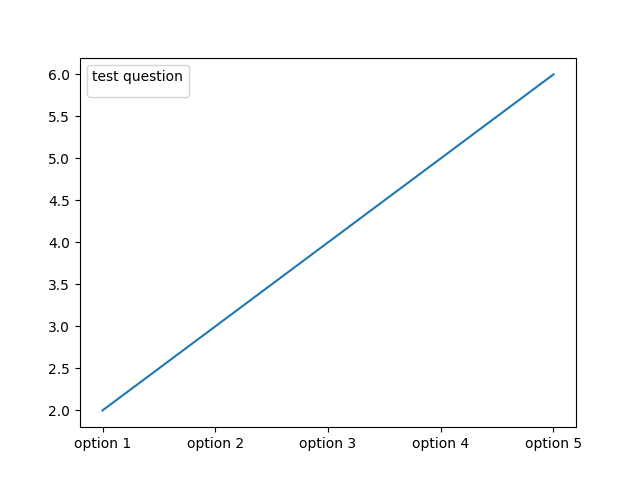
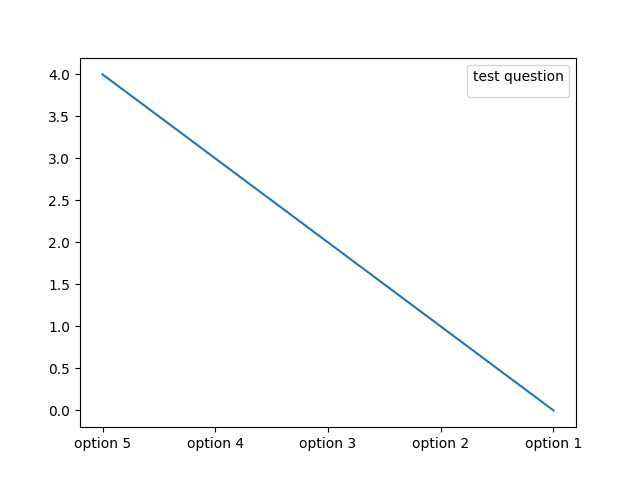
fix: statistics
Vote counting and tests fixed

diff --git a/decide/decide_statistics/templates/decide_statistics/index.html b/decide/decide_statistics/templates/decide_statistics/index.html
@@ -22,20 +22,21 @@
         <div class="col-md-3"></div>
         <div class="col-md-6">
             <form id="voting_graph">
-                <label for="voting" class="h2">Votings:</label>
-                <select class="form-select" aria-label="Choose a voting" id="voting" name="voting" required>
-                    <option selected value="0" disabled>Choose a voting</option>
+                <label for="voting" class="h2">Votaciones:</label>
+                <h3>Solo votaciones terminadas y con algún voto pueden ser mostradas</h3>
+                <select class="form-select" aria-label="Elija una votación" id="voting" name="voting" required>
+                    <option selected value="0" disabled>Elija una votación</option>
                     {% for v in votings %}
-                    <option value="{{v.id}}">{{v.desc}}</option>
+                    <option value="{{v.id}}">{{v.name}}</option>
                     {% endfor %}
                 </select>
-                <select class="form-select" aria-label="Choose a graph type" id="graph_type" name="graph_type" required>
-                    <option selected value="" disabled>Choose a graph type</option>
-                    <option value="bar">Bar</option>
-                    <option value="pie">Pie</option>
-                    <option value="horizontal_bar">Horizontal bar</option>
-                    <option value="dots">Dots</option>
-                    <option value="line">Line</option>
+                <select class="form-select" aria-label="Elija un tipo de gráfico" id="graph_type" name="graph_type" required>
+                    <option selected value="" disabled>Elija un tipo de gráfico</option>
+                    <option value="bar">Barra</option>
+                    <option value="pie">Tarta</option>
+                    <option value="horizontal_bar">Barra horizontal</option>
+                    <option value="dots">Puntos</option>
+                    <option value="line">Linea</option>
                 </select>
             </form>
             <button type="submit" class="btn btn-success" form="voting_graph">Consultar</button>

diff --git a/decide/decide_statistics/views.py b/decide/decide_statistics/views.py
@@ -1,28 +1,43 @@
 from django.shortcuts import render
-from voting.models import Voting, QuestionOption
+from voting.models import Voting, QuestionOption, Question, Auth
+from base import mods
 from django.http import HttpResponse
 import matplotlib.pyplot as plt
 from itertools import cycle
 import numpy as np
+from decide_statistics import tests
 import logging
+from django.conf import settings
+import datetime
 
 logging.getLogger('matplotlib.font_manager').disabled = True
 
-graph_image_directory = 'decide/decide_statistics/static/decide_statistics/graph.png'
+graph_image_directory = 'decide_statistics/static/decide_statistics/graph.png'
 
 def index(request):
-    votings = Voting.objects.all()
+    votings = Voting.objects.filter(end_date__isnull = False).filter(postproc__isnull = False)
+    votings_with_votes = []
+    for voting in votings:
+        number_of_votes = 0
+        for postproc in voting.postproc:
+            number_of_votes += int(postproc['votes'])
+        if number_of_votes > 0:
+            votings_with_votes.append(voting)
+
     
-    modelmap = {"votings":votings}
+    modelmap = {"votings":votings_with_votes}
     voting = request.GET.get("voting")
     graph_type = request.GET.get("graph_type")
     if voting is None:
         voting = 0
     if graph_type is None:
         graph_type = ''
-
     if voting == 0 or voting == '0' or graph_type == '':
         return render(request, "decide_statistics/index.html", modelmap)
+    elif Voting.objects.filter(id__exact = voting).count() == 0:
+        return HttpResponse("Esta votación no existe")
+    elif Voting.objects.get(id__exact = voting) not in votings_with_votes:
+        return HttpResponse("Esta votación no ha terminado o no tiene votos")
     else:
         return showVoting(request, voting, graph_type, modelmap)
     
@@ -93,22 +108,17 @@ def show_plot(voting_id):
     plt.savefig(graph_image_directory)
 
 def get_voting_showing_parameters(voting_id):
-    
-    for v in Voting.objects.all():
-        print(v.pk)
     voting = Voting.objects.get(id__exact = voting_id)
     options = QuestionOption.objects.filter(question = voting.question)
     options_str = []
     bar_colors = []
     counts = []
-    for opt in options:
-        options_str.append(opt.option)
-        counts.append(opt.number)
+    for v in voting.postproc:
+        options_str.append(v['option'])
+        counts.append(v['votes'])
 
     color_cycler = cycle(['#1f77b4', '#ff7f0e', '#2ca02c', '#d62728', '#9467bd', '#8c564b', '#e377c2', '#7f7f7f', '#bcbd22', '#17becf'])
     for i in range(0, len(counts)):
         bar_colors.append(next(color_cycler))
 
     return voting, options_str, counts, bar_colors
-
-

diff --git a/decide/decide_statistics/tests.py b/decide/decide_statistics/tests.py
@@ -2,6 +2,8 @@ from django.test import TestCase, Client
 from base.tests import BaseTestCase
 from voting.models import Voting, Question, QuestionOption, Auth
 from django.conf import settings
+from base import mods
+import datetime
 
 class CensusTestCase(BaseTestCase):
 
@@ -15,11 +17,20 @@ class CensusTestCase(BaseTestCase):
 
     def create_voting(self):
         q = Question(desc='test question')
+        now = datetime.datetime.now()
+        opts = []
         q.save()
         for i in range(5):
             opt = QuestionOption(question=q, option='option {}'.format(i+1))
             opt.save()
-        v = Voting(name='test voting', question=q)
+            opts.append({
+                'option': opt.option,
+                'number': opt.number,
+                'votes': i
+            })
+        data = { 'type': 'IDENTITY', 'options': opts }
+        postp = mods.post('postproc', json=data)
+        v = Voting(name='test voting', question=q, postproc = postp, start_date = now, end_date = now)
         v.save()
 
         a, _ = Auth.objects.get_or_create(url=settings.BASEURL,

diff --git a/decide/decide/settings.py b/decide/decide/settings.py
@@ -55,7 +55,7 @@ REST_FRAMEWORK = {
 }
 
 AUTHENTICATION_BACKENDS = [
-    'decide.base.backends.AuthBackend',
+    'base.backends.AuthBackend',
 ]
 
 MODULES = [
